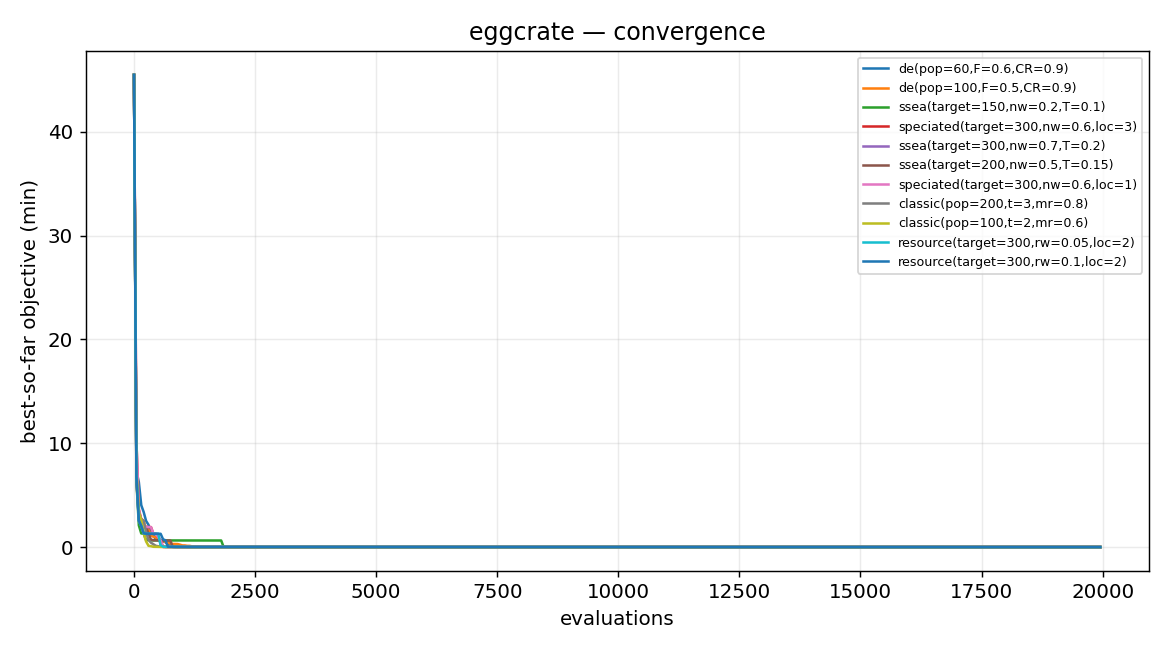
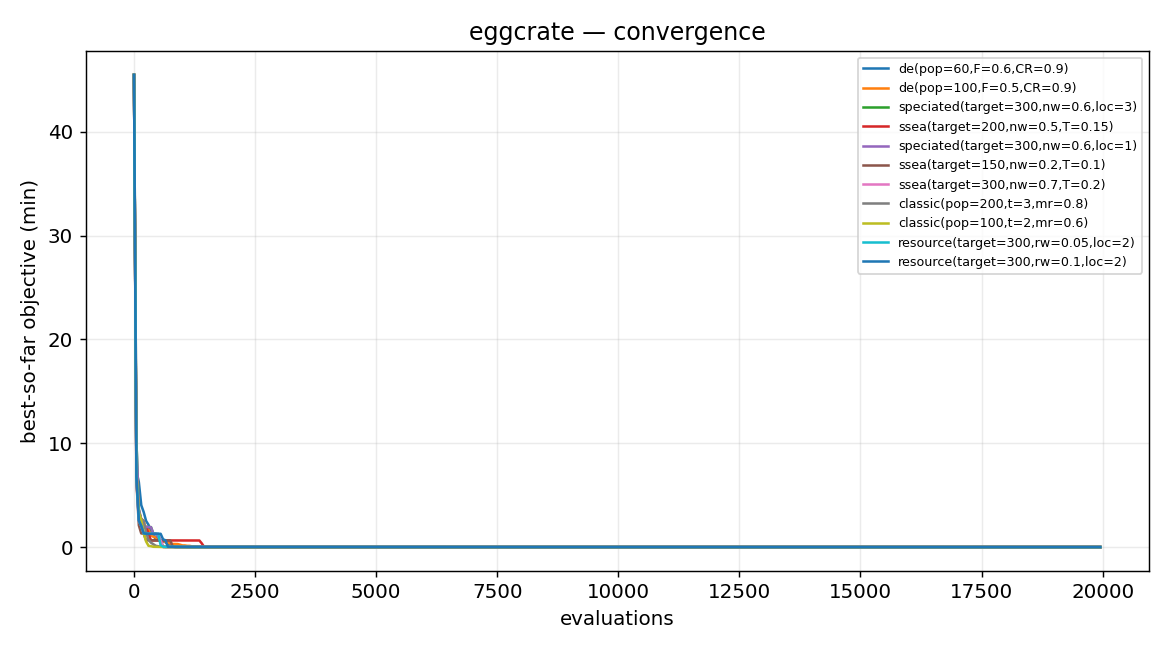
feat: raise SSEA knn to 15 for more even ring spread (reduces kNN-novelty saturation)
Larger novelty neighbourhood spreads SSEA solutions more evenly (angular evenness 0.81->0.83) with no coverage regression (griewank 73.5, rastrigin 29.3). Applied to the two-circles example and gauntlet SSEA configs; charts refreshed.

diff --git a/evors-bench/src/harness.rs b/evors-bench/src/harness.rs
@@ -226,7 +226,9 @@ pub fn default_configs() -> Vec<Config> {
                 novelty_weight: nw,
                 temperature: temp,
                 behavior_weight: 0.0,
-                knn: 5,
+                // knn=15: a larger novelty neighbourhood reduces kNN saturation,
+                // so SSEA spreads more evenly instead of clumping.
+                knn: 15,
                 seed: 0,
             }),
             mutation_step: 0.3,

diff --git a/evors-bench/examples/two_circles.rs b/evors-bench/examples/two_circles.rs
@@ -63,7 +63,9 @@ fn main() {
             novelty_weight: 0.6,
             temperature: 0.2,
             behavior_weight: 0.0,
-            knn: 5,
+            // knn=15 (not the usual 5): a larger neighbourhood reduces kNN-novelty
+            // saturation, so SSEA spreads more evenly around each ring.
+            knn: 15,
             seed: 1,
         },
     );
